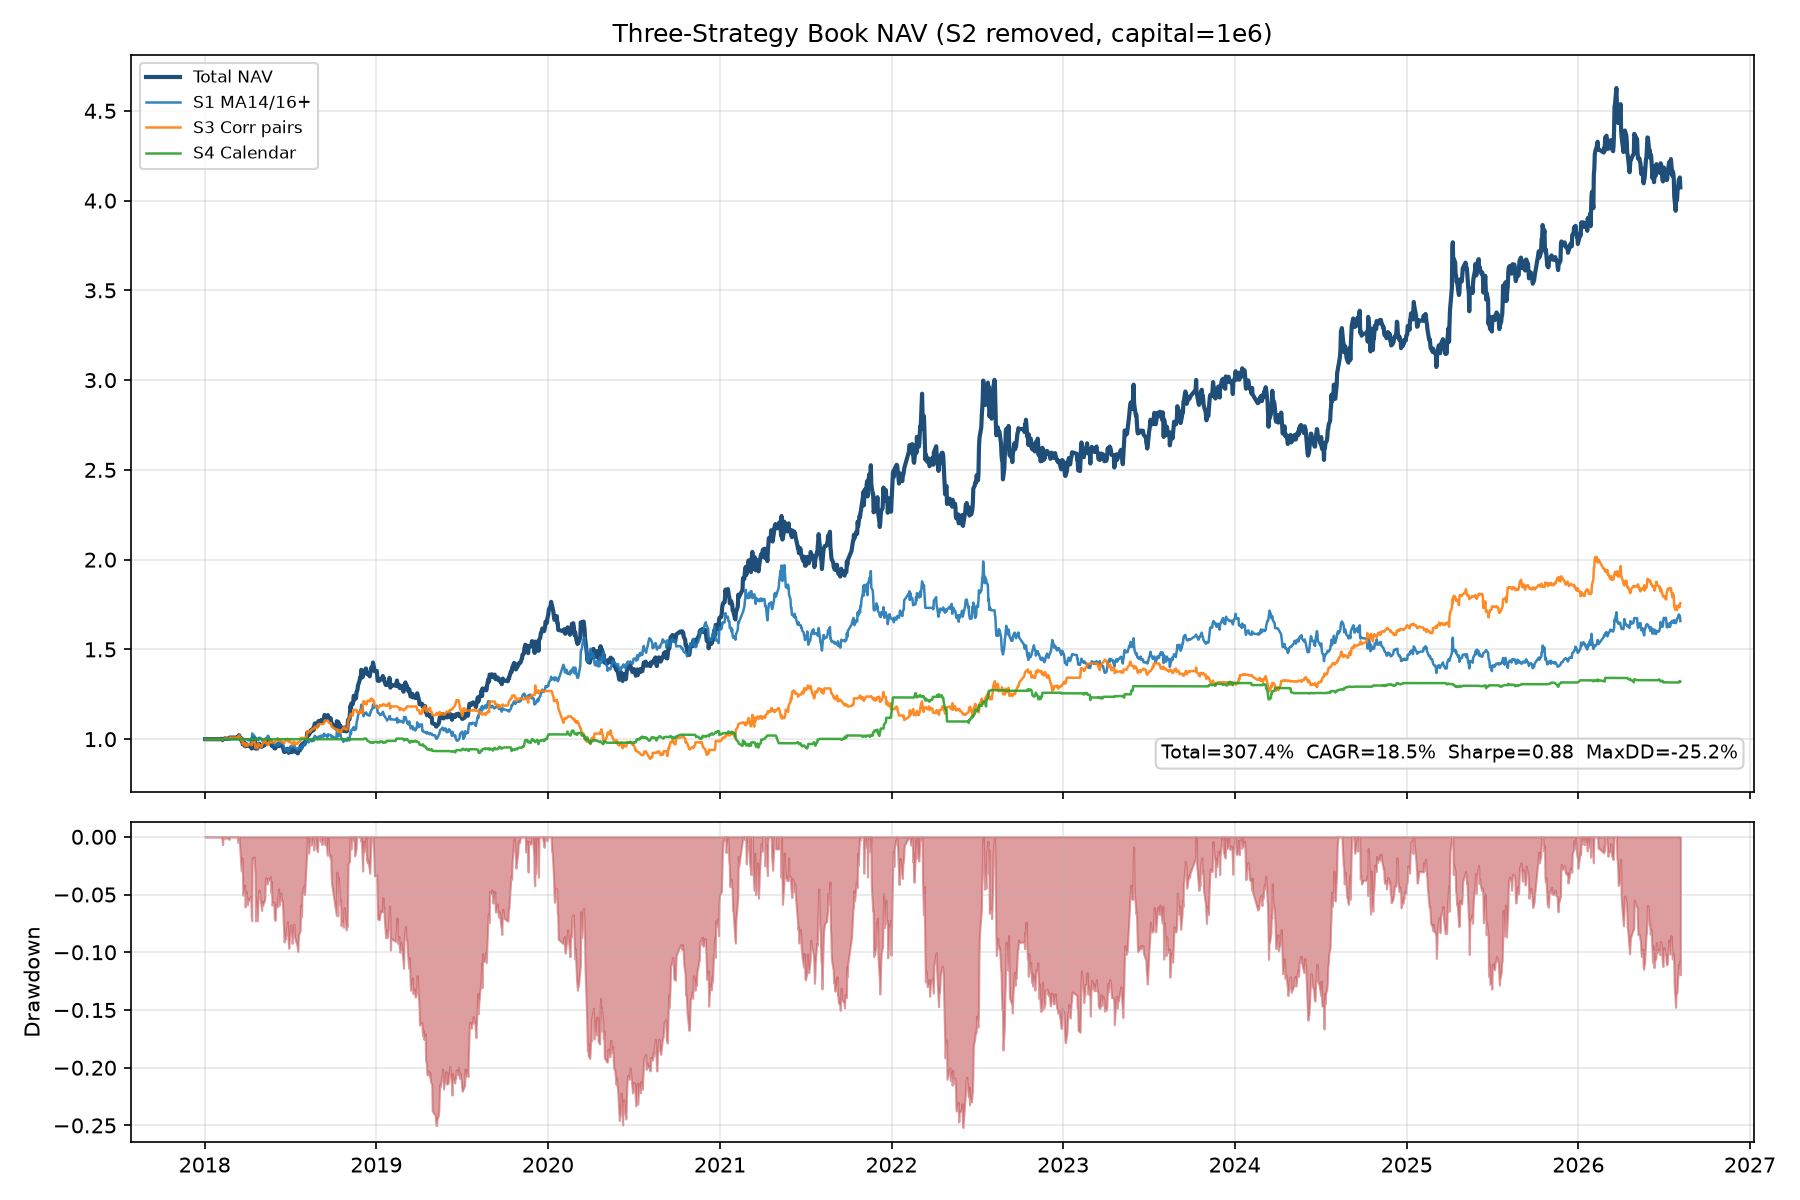
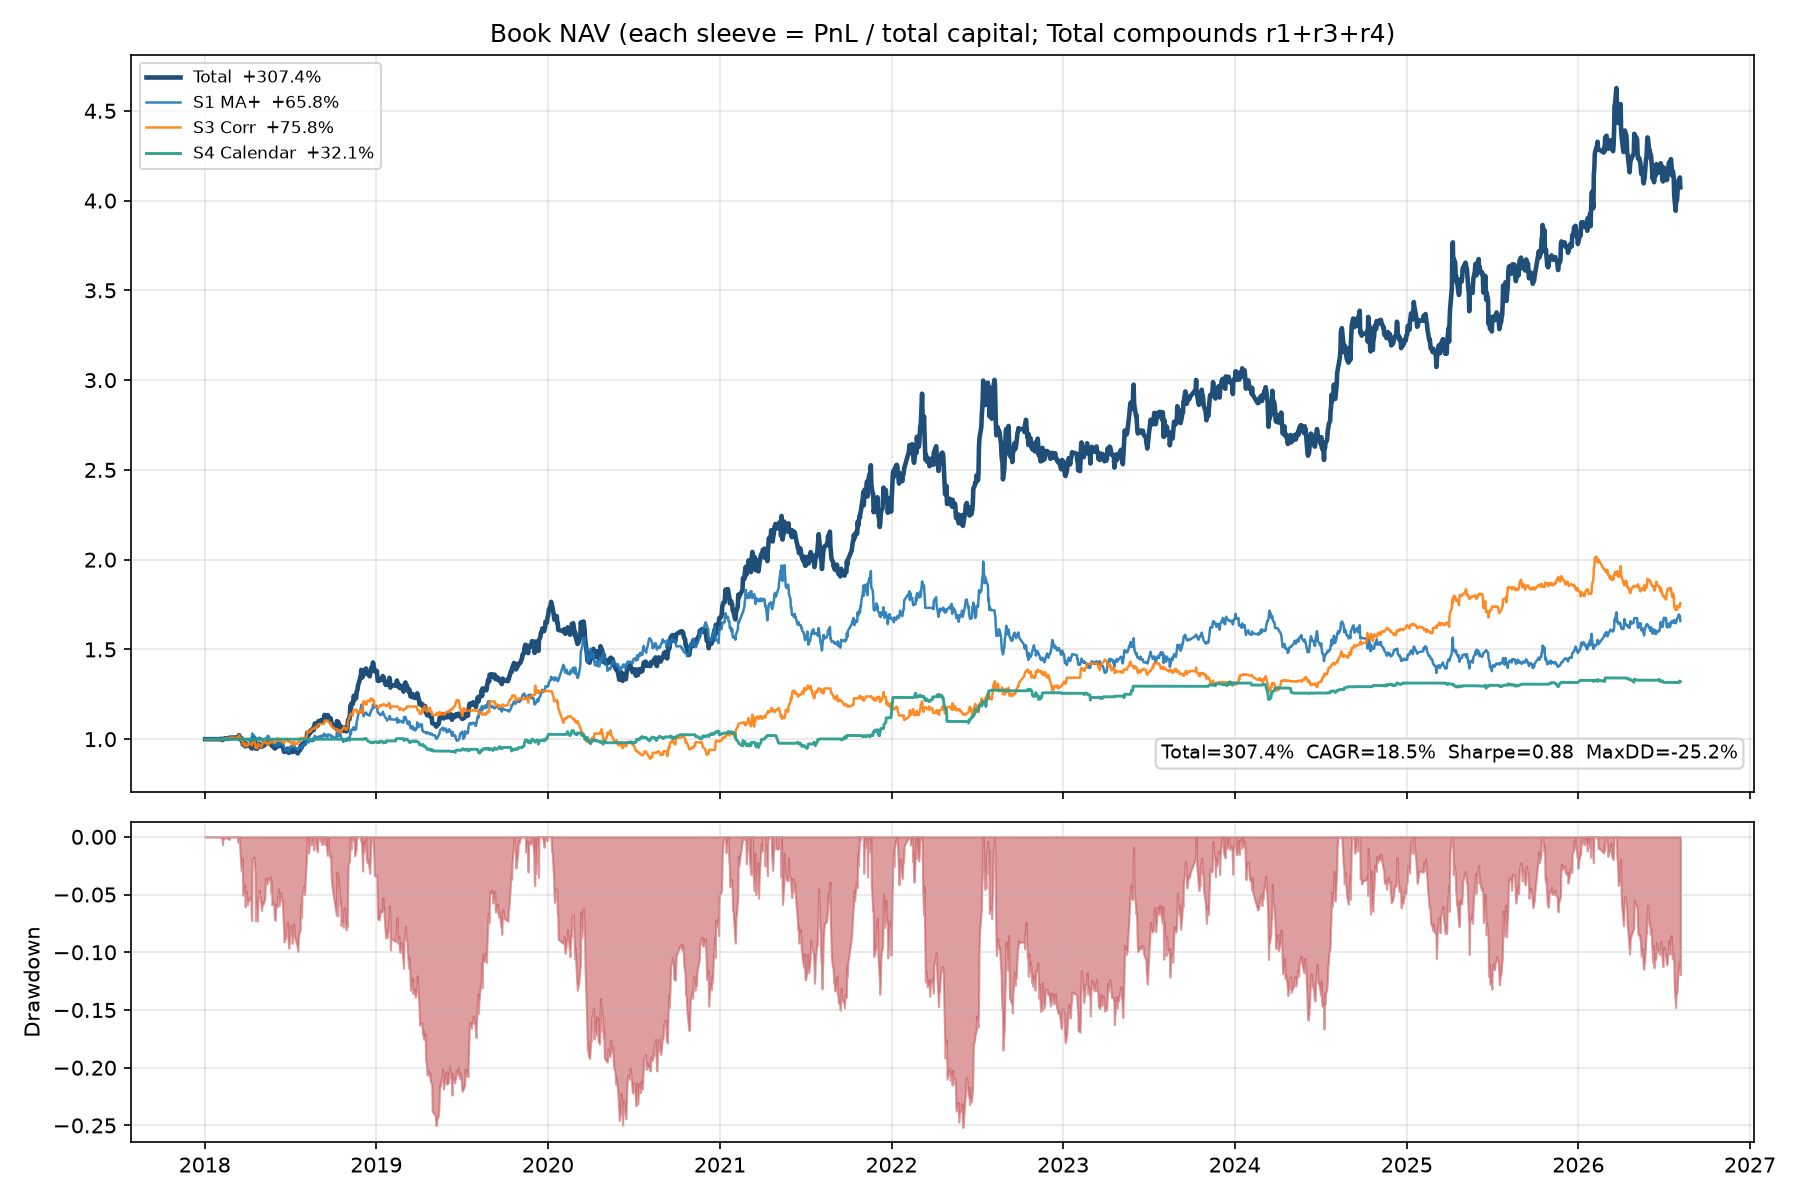
Clarify book NAV charts with sleeve returns and S4 zoom
Legend now shows each sleeve's cumulative return; strategies plot
adds an S4-only panel so +32% is not visually drowned by Total 4x.

diff --git a/cta/book/run_book.py b/cta/book/run_book.py
@@ -30,15 +30,46 @@ def _load_panels(data_dir: str):
 
 def _plot(result, out_dir: str) -> None:
     os.makedirs(out_dir, exist_ok=True)
+    s1r = float(result.summary_s1["total_return"])
+    s3r = float(result.summary_s3["total_return"])
+    s4r = float(result.summary_s4["total_return"])
+    st = result.summary_total
+
     fig, axes = plt.subplots(2, 1, figsize=(12, 8), sharex=True, gridspec_kw={"height_ratios": [3, 1.3]})
-    axes[0].plot(result.nav_total.index, result.nav_total.values, color="#1f4e79", lw=2.0, label="Total NAV")
-    axes[0].plot(result.nav_s1.index, result.nav_s1.values, lw=1.2, alpha=0.9, label="S1 MA14/16+")
-    axes[0].plot(result.nav_s3.index, result.nav_s3.values, lw=1.2, alpha=0.9, label="S3 Corr pairs")
-    axes[0].plot(result.nav_s4.index, result.nav_s4.values, lw=1.2, alpha=0.9, label="S4 Calendar")
-    axes[0].set_title("Three-Strategy Book NAV (S2 removed, capital=1e6)")
+    axes[0].plot(
+        result.nav_total.index,
+        result.nav_total.values,
+        color="#1f4e79",
+        lw=2.2,
+        label=f"Total  {st['total_return']:+.1%}",
+    )
+    axes[0].plot(
+        result.nav_s1.index,
+        result.nav_s1.values,
+        lw=1.2,
+        alpha=0.9,
+        label=f"S1 MA+  {s1r:+.1%}",
+    )
+    axes[0].plot(
+        result.nav_s3.index,
+        result.nav_s3.values,
+        lw=1.2,
+        alpha=0.9,
+        label=f"S3 Corr  {s3r:+.1%}",
+    )
+    axes[0].plot(
+        result.nav_s4.index,
+        result.nav_s4.values,
+        lw=1.4,
+        alpha=0.95,
+        color="#2a9d8f",
+        label=f"S4 Calendar  {s4r:+.1%}",
+    )
+    axes[0].set_title(
+        "Book NAV (each sleeve = PnL / total capital; Total compounds r1+r3+r4)"
+    )
     axes[0].legend(loc="upper left", fontsize=8)
     axes[0].grid(True, alpha=0.3)
-    st = result.summary_total
     axes[0].text(
         0.99,
         0.04,
@@ -59,16 +90,27 @@ def _plot(result, out_dir: str) -> None:
     fig.savefig(os.path.join(out_dir, "nav_book.png"), dpi=150)
     plt.close(fig)
 
-    fig, ax = plt.subplots(figsize=(12, 5))
-    for name, series, color in [
-        ("S1 MA+", result.nav_s1, "#2a9d8f"),
-        ("S3 Corr", result.nav_s3, "#e76f51"),
-        ("S4 Calendar", result.nav_s4, "#264653"),
+    # 分策略图：图例带累计收益，避免 S4「看起来很平」被误读
+    fig, axes = plt.subplots(2, 1, figsize=(12, 7), sharex=True, gridspec_kw={"height_ratios": [2.2, 1.4]})
+    for name, series, color, ret in [
+        ("S1 MA+", result.nav_s1, "#2a9d8f", s1r),
+        ("S3 Corr", result.nav_s3, "#e76f51", s3r),
+        ("S4 Calendar", result.nav_s4, "#264653", s4r),
     ]:
-        ax.plot(series.index, series.values, label=name, color=color, lw=1.4)
-    ax.set_title("Per-strategy NAV (return on total capital)")
-    ax.legend()
-    ax.grid(True, alpha=0.3)
+        axes[0].plot(series.index, series.values, label=f"{name}  {ret:+.1%}", color=color, lw=1.5)
+    axes[0].set_title("Per-strategy NAV on total capital (1.0 = flat)")
+    axes[0].legend(loc="upper left", fontsize=9)
+    axes[0].grid(True, alpha=0.3)
+    axes[0].axhline(1.0, color="#999", lw=0.8, ls="--")
+
+    # S4 单独放大，避免被 S1/S3 尺度淹没
+    axes[1].plot(result.nav_s4.index, result.nav_s4.values, color="#264653", lw=1.8, label=f"S4 only  {s4r:+.1%}")
+    axes[1].fill_between(result.nav_s4.index, 1.0, result.nav_s4.values, alpha=0.25, color="#264653")
+    axes[1].axhline(1.0, color="#999", lw=0.8, ls="--")
+    axes[1].set_ylabel("S4 NAV")
+    axes[1].set_title("S4 zoom (same series, own scale)")
+    axes[1].legend(loc="upper left", fontsize=9)
+    axes[1].grid(True, alpha=0.3)
     fig.tight_layout()
     fig.savefig(os.path.join(out_dir, "nav_strategies.png"), dpi=150)
     plt.close(fig)
